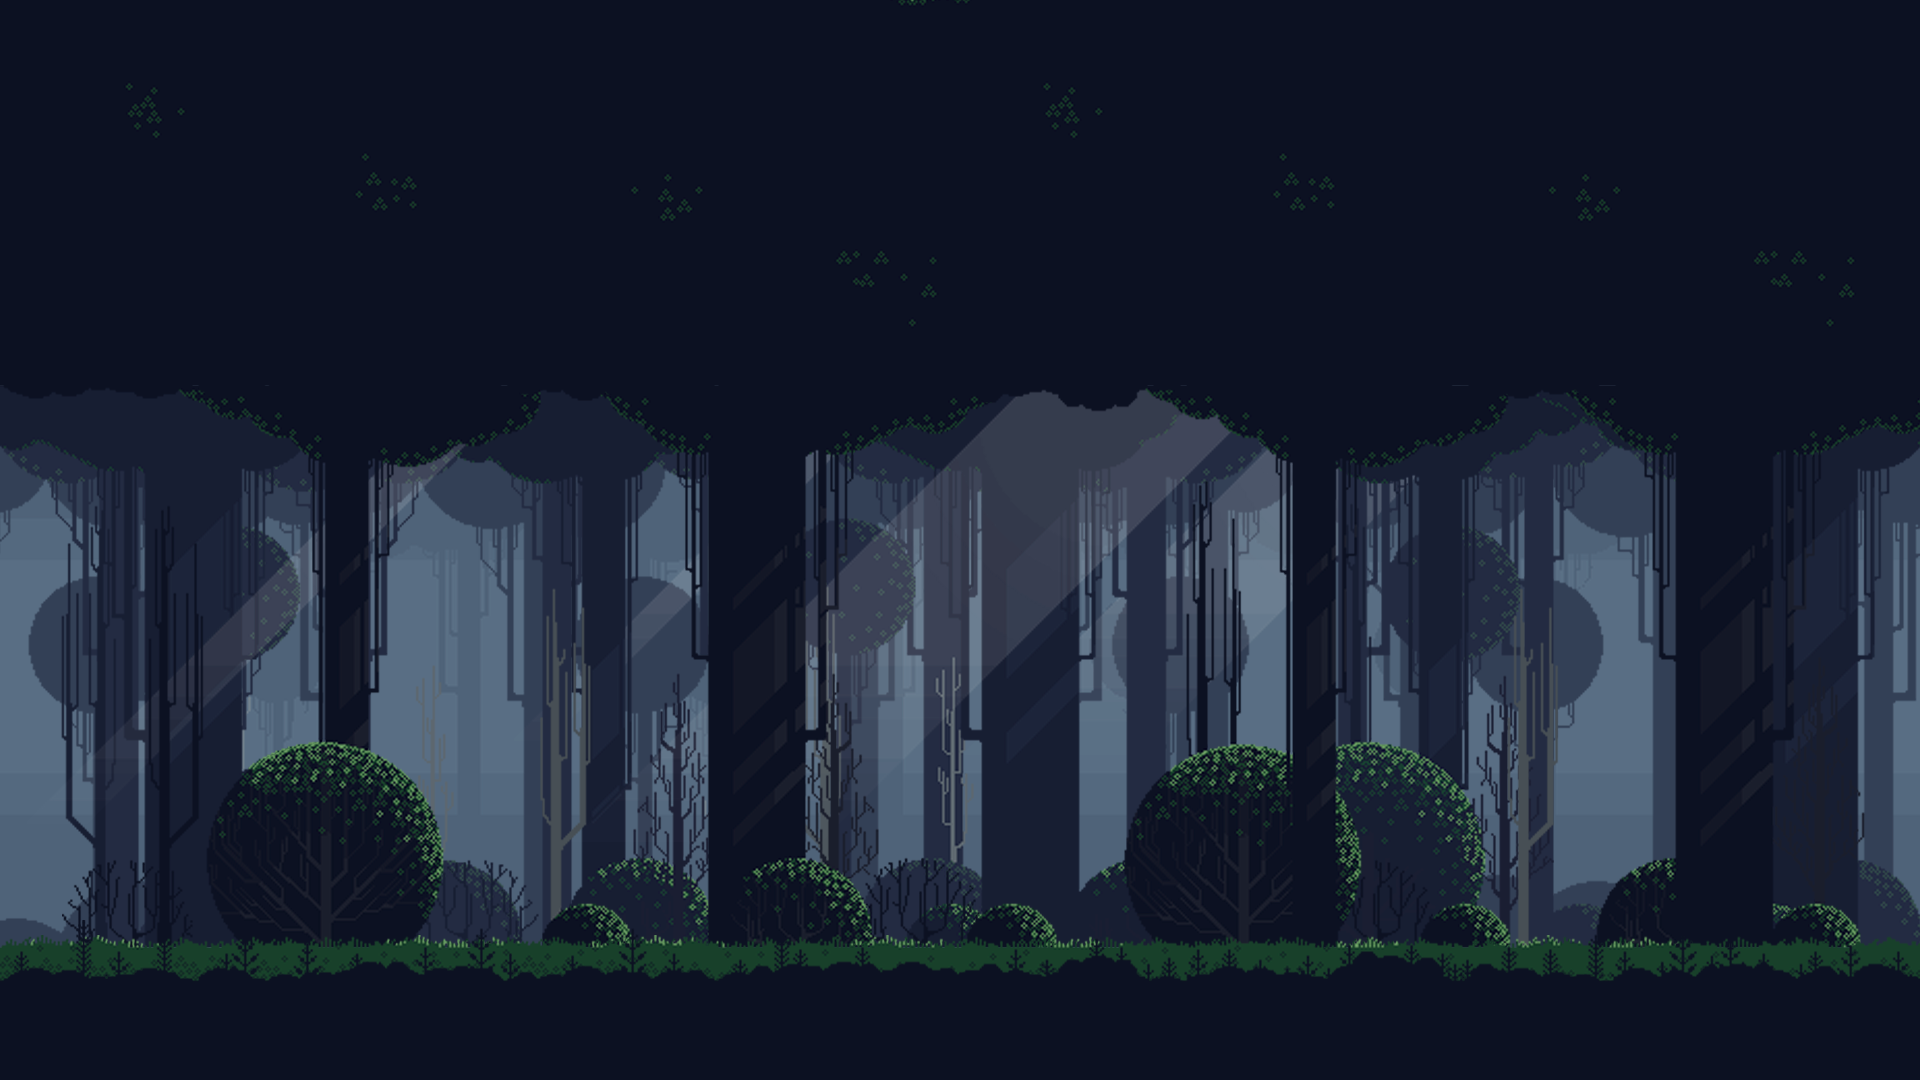
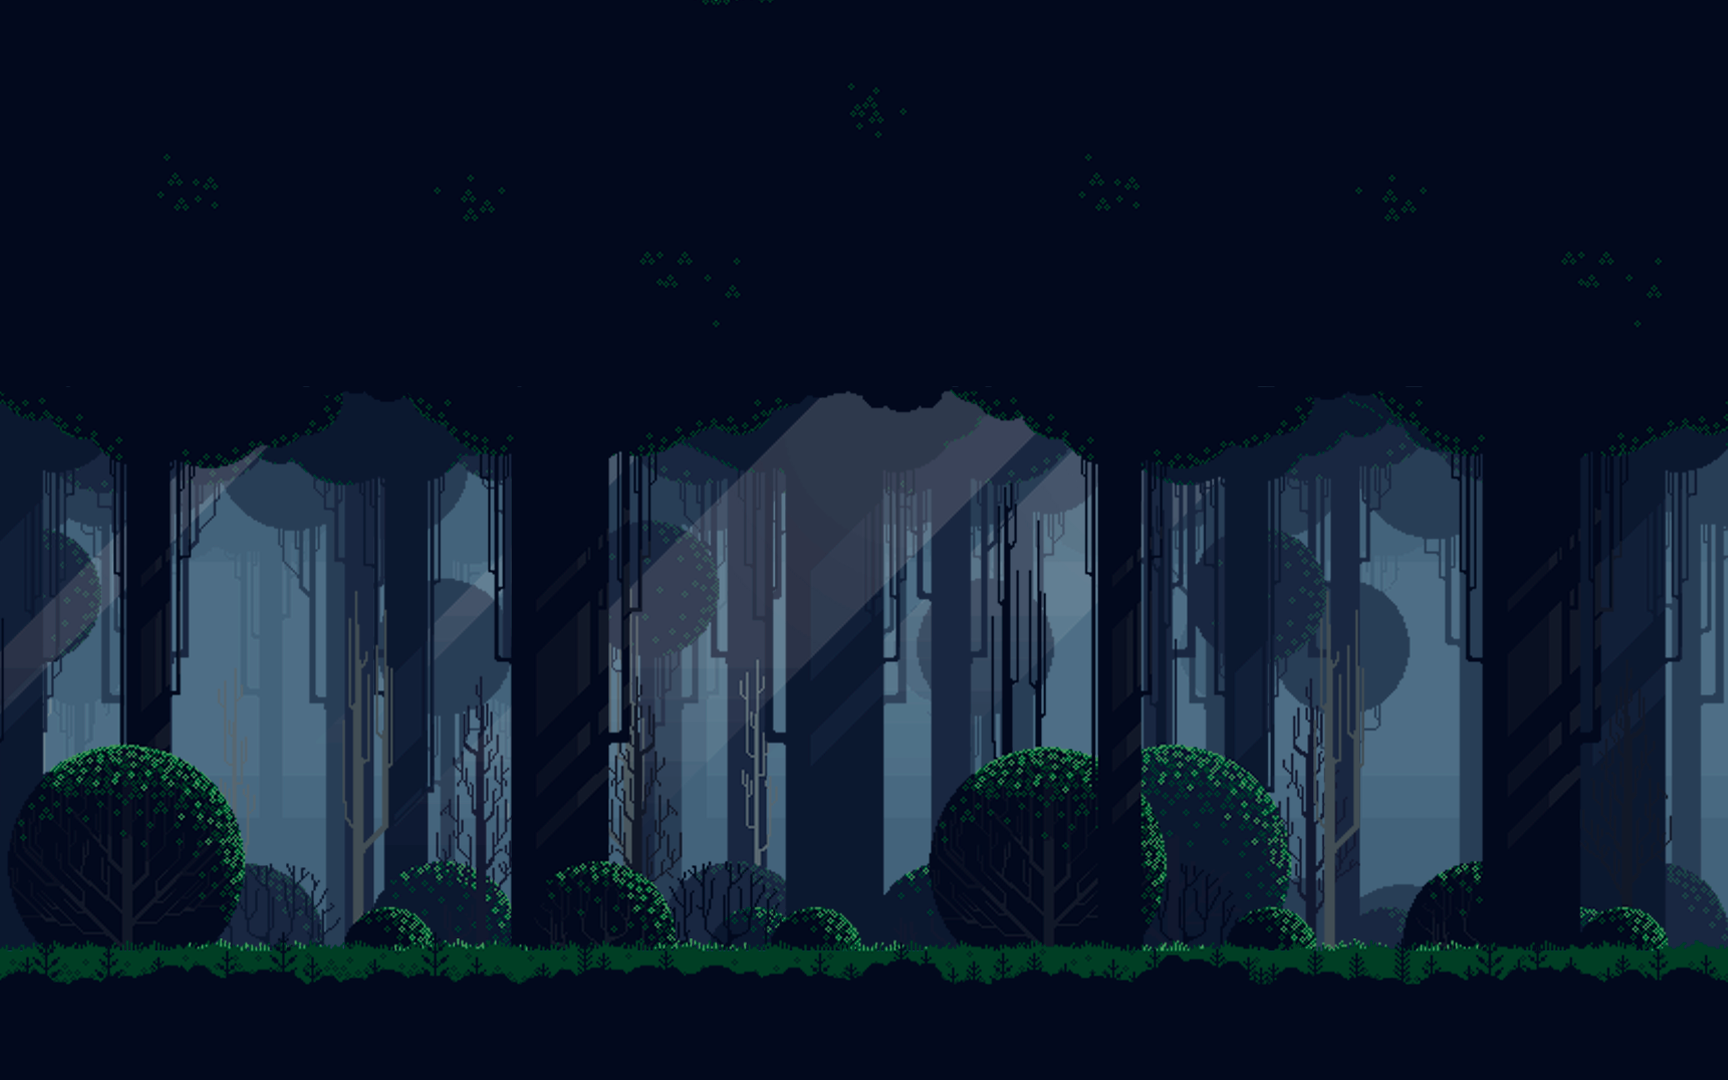
.
.

diff --git a/public/game/assets/js/scenes/SelecaoPersonagem.js b/public/game/assets/js/scenes/SelecaoPersonagem.js
@@ -21,14 +21,15 @@ export default class MainScene extends Phaser.Scene {
       // this.bg = this.add.tileSprite(0, 38, 800, 296, 'Select_ceu')
       // .setOrigin(0, 0);
      
-    this.trees = this.add.tileSprite(0, 0, 1920, 1080, 'Select_forest')
-    .setOrigin(0);
+    this.trees = this.add.tileSprite(0, 0, 2220, 1080, 'Select_forest')
+    .setOrigin(0, 0);
 
 
     let scaleX = window.innerWidth / this.trees.width
     let scaleY = window.innerHeight / this.trees.height
     let scale = Math.max(scaleX, scaleY)
     this.trees.setScale(scale)
+   
    
 
      
@@ -43,14 +44,13 @@ export default class MainScene extends Phaser.Scene {
       {
         
       
-      let scaleX = window.innerWidth / this.trees.width
-      let scaleY = window.innerHeight / this.trees.height
+      let scaleX = this.cameras.main.width / this.trees.width
+      let scaleY = this.cameras.main.height / this.trees.height
       let scale = Math.max(scaleX, scaleY)
-      console.log(scale)
       this.trees.setScale(scale)
 
 
-var calc = scale*200
+    var calc = 175*scale
       this.selectPlayers.forEach(element => {
         element.y = this.cameras.main.height-calc;
       });

diff --git a/public/game/assets/js/controllers/getPlayers.js b/public/game/assets/js/controllers/getPlayers.js
@@ -8,7 +8,7 @@ export default function GetPlayer(GameEngine){
 
        var local = 100;
         data.forEach(element => {
-            
+            console.log(element.NameSprite)
 
             GameEngine.selectPlayers[element.idCharecters] = GameEngine.add.sprite(local, width,element.NameSprite)
             GameEngine.selectPlayers[element.idCharecters].displayWidth = 72

diff --git a/public/game/assets/js/states/player.js b/public/game/assets/js/states/player.js
@@ -7,7 +7,6 @@ GameEngine.player.Container = GameEngine.add.container(GameEngine.player.Map.x, 
 GameEngine.player.Container.setSize(32,56, false)
 
 
-console.log(GameEngine.player.Container)
 
 
 GameEngine.player.Sprite = GameEngine.add.sprite(1, -8,player.nameSprite);
